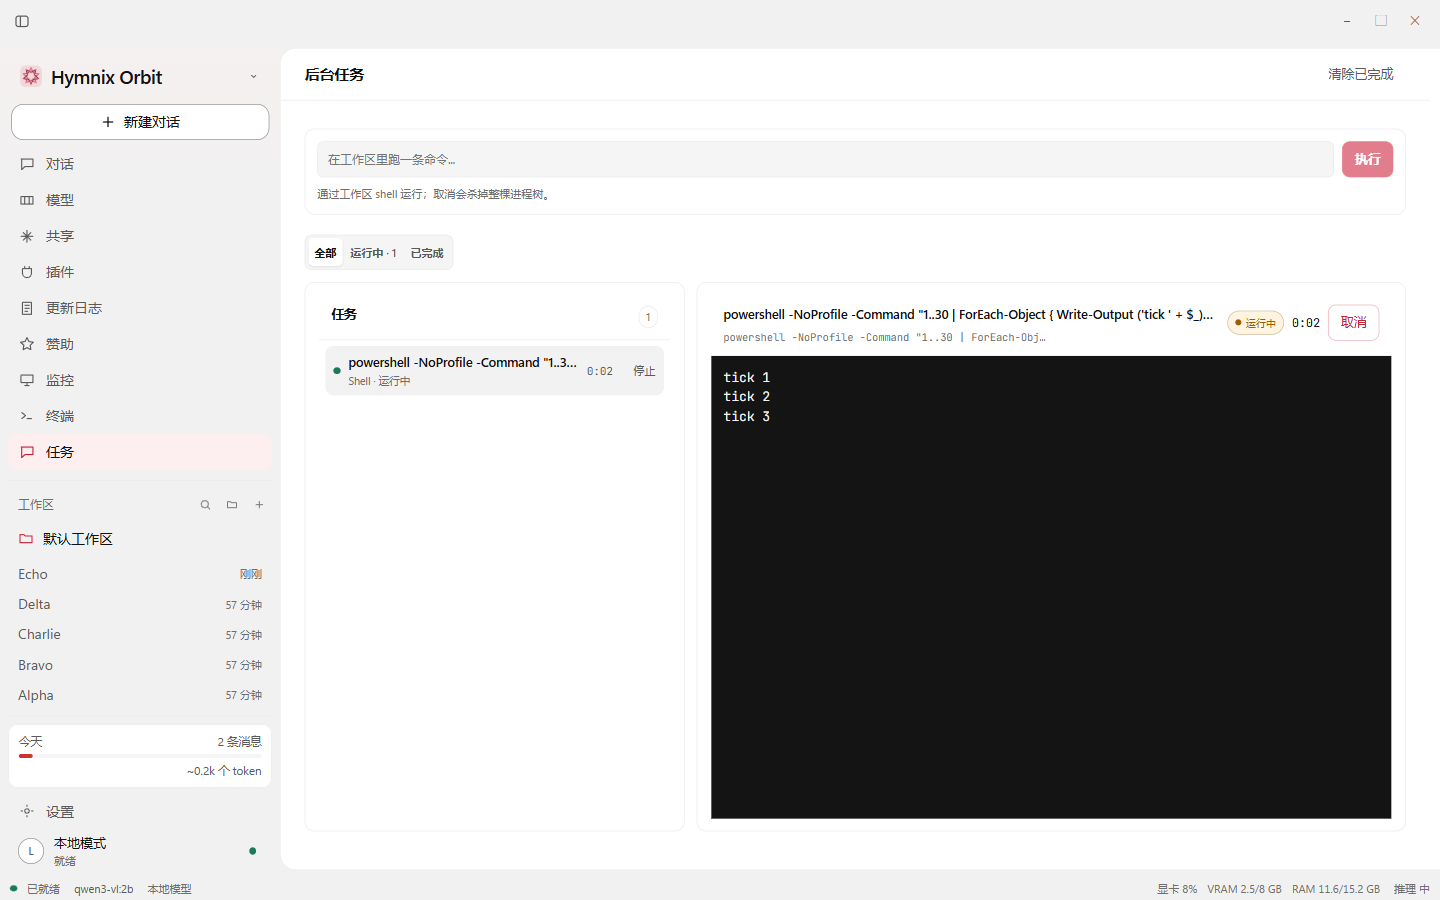
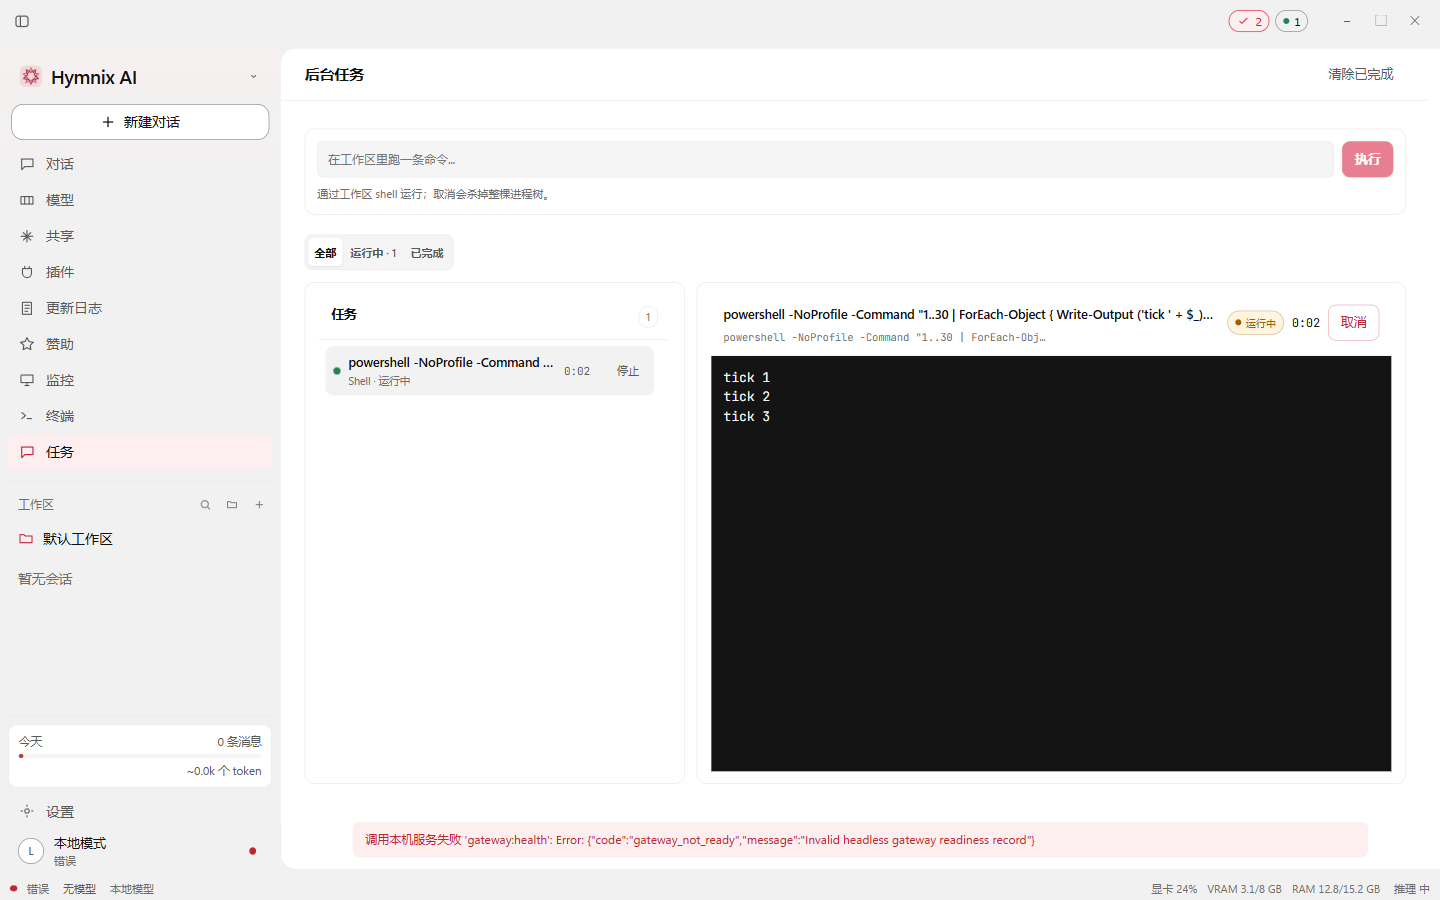
fix(orbit): align list columns, centre the shortcut sheet, move the title-bar badges
Reported while reviewing the 1.4.0 build: rows did not line up and dialogs looked cut off.

- plan steps, jobs rows and shortcut-editor rows use fixed grid columns, so the duration, exit code and button edges share one right edge per list
- shortcut sheet gets its own scrim (grid centring, 24px margins) instead of the top-padded palette backdrop that pinned it to the window edge
- scrollable lists inside cards show a thin scrollbar, so a partly visible row reads as scrollable rather than broken
- approval/job badges move to the window-control side of the title bar and get -webkit-app-region: no-drag (they were unclickable inside the drag region)
- probe-align / probe-clip / probe-badges scripts measure edges, clipping at 900/700/640 and badge clickability

diff --git a/desktop/src/renderer/orbit-v2.css b/desktop/src/renderer/orbit-v2.css
@@ -1881,8 +1881,9 @@ kbd { padding: 2px 5px; border: 1px solid var(--border); border-radius: 4px; bac
 .head-badge.live .badge-dot { background: var(--success); animation: orbit-pulse 1.4s var(--ease-standard) infinite; }
 @keyframes orbit-alert { 50% { box-shadow: 0 0 0 3px color-mix(in srgb, var(--accent) 16%, transparent); } }
 
-.tb-badges { display: flex; align-items: center; gap: 6px; padding: 0 8px; }
+.tb-badges { display: flex; flex: 0 0 auto; align-items: center; gap: 6px; padding: 0 10px 0 4px; -webkit-app-region: no-drag; }
 .tb-badges .head-badge { height: 22px; padding: 0 7px; }
+.tb-badges + .tb-window { margin-left: 2px; }
 
 /* ---- tool loop banner ---------------------------------------------------- */
 .loop-banner { display: flex; align-items: center; gap: 8px; margin: 0 auto 8px; width: min(760px, 100%); padding: 7px 10px; border: 1px solid var(--border); border-radius: var(--r-md); background: var(--sunken); color: var(--muted); font-size: calc(12px * var(--text-scale, 1)); }
@@ -1900,7 +1901,7 @@ kbd { padding: 2px 5px; border: 1px solid var(--border); border-radius: 4px; bac
 .plan-progress { height: 4px; border-radius: 999px; background: var(--highlight); overflow: hidden; }
 .plan-progress i { display: block; height: 100%; border-radius: inherit; background: var(--accent-fill); transition: width var(--dur-panel) var(--ease-standard); }
 .plan-steps { list-style: none; margin: 0; padding: 0; display: flex; flex-direction: column; gap: 2px; }
-.plan-step { display: grid; grid-template-columns: 20px minmax(0, 1fr) auto; align-items: center; gap: 8px; padding: 6px 6px; border-radius: 8px; }
+.plan-step { display: grid; grid-template-columns: 22px minmax(0, 1fr) 88px 104px; align-items: center; gap: 8px; padding: 6px 6px; border-radius: 8px; }
 .plan-step:hover { background: var(--highlight); }
 .plan-step[data-status="running"] { background: var(--accent-soft); }
 .plan-index { color: var(--faint); font-family: var(--font-mono); font-size: calc(11px * var(--text-scale, 1)); text-align: right; }
@@ -1913,10 +1914,10 @@ kbd { padding: 2px 5px; border: 1px solid var(--border); border-radius: 4px; bac
 .plan-dot[data-status="done"] { border-color: var(--success); background: var(--success); }
 .plan-dot[data-status="failed"] { border-color: var(--danger); background: var(--danger); }
 .plan-dot[data-status="skipped"] { border-color: var(--faint); background: var(--highlight); }
-.plan-meta { display: inline-flex; align-items: center; gap: 8px; margin-left: auto; color: var(--faint); font-size: calc(11px * var(--text-scale, 1)); }
+.plan-meta { display: flex; align-items: center; justify-content: flex-end; gap: 8px; min-width: 0; color: var(--faint); font-size: calc(11px * var(--text-scale, 1)); white-space: nowrap; }
 .plan-meta em { color: var(--accent-text); font-style: normal; font-weight: var(--fw-medium); }
 .plan-evidence-count { color: var(--muted); }
-.plan-step-actions { display: inline-flex; gap: 2px; opacity: 0; transition: opacity var(--dur-hover) var(--ease-standard); }
+.plan-step-actions { display: flex; align-items: center; justify-content: flex-end; gap: 2px; opacity: 0; transition: opacity var(--dur-hover) var(--ease-standard); }
 .plan-step:hover .plan-step-actions, .plan-step:focus-within .plan-step-actions { opacity: 1; }
 .plan-step-actions .btn { height: 24px; padding: 0 8px; font-size: calc(11px * var(--text-scale, 1)); }
 .plan-step-detail { grid-column: 2 / -1; padding: 6px 0 4px; }
@@ -1931,6 +1932,13 @@ kbd { padding: 2px 5px; border: 1px solid var(--border); border-radius: 4px; bac
 .evidence-time { margin-left: auto; color: var(--faint); font-family: var(--font-mono); font-size: calc(10.5px * var(--text-scale, 1)); }
 .plan-evidence li[data-status="error"], .evidence-list li[data-status="error"] { color: var(--danger); }
 .plan-evidence li[data-status="denied"], .evidence-list li[data-status="denied"] { color: var(--warning); }
+
+/* Long lists inside cards: an always-visible thin scrollbar. Without it the
+   last row is simply sliced by the card edge and reads as a layout bug. */
+.job-rows, .approval-rows, .shortcuts-sheet-body, .job-output { scrollbar-width: thin; scrollbar-color: var(--border-strong) transparent; scrollbar-gutter: stable; }
+.job-rows::-webkit-scrollbar, .approval-rows::-webkit-scrollbar, .shortcuts-sheet-body::-webkit-scrollbar, .job-output::-webkit-scrollbar { width: 9px; }
+.job-rows::-webkit-scrollbar-track, .approval-rows::-webkit-scrollbar-track, .shortcuts-sheet-body::-webkit-scrollbar-track, .job-output::-webkit-scrollbar-track { background: transparent; }
+.job-rows::-webkit-scrollbar-thumb, .approval-rows::-webkit-scrollbar-thumb, .shortcuts-sheet-body::-webkit-scrollbar-thumb, .job-output::-webkit-scrollbar-thumb { border: 2px solid transparent; border-radius: 6px; background: var(--border-strong); background-clip: content-box; }
 
 /* ---- approvals drawer ---------------------------------------------------- */
 .drawer-backdrop { position: fixed; inset: 0; z-index: var(--z-dialog); display: flex; justify-content: flex-end; background: color-mix(in srgb, var(--bg) 42%, transparent); backdrop-filter: blur(2px); animation: orbit-fade var(--dur-panel) var(--ease-standard); }
@@ -1970,6 +1978,7 @@ kbd { padding: 2px 5px; border: 1px solid var(--border); border-radius: 4px; bac
 .verdict.denied { background: var(--danger-soft); color: var(--danger); }
 
 /* ---- shortcut reference sheet ------------------------------------------- */
+.sheet-backdrop { position: fixed; inset: 0; z-index: var(--z-dialog); display: grid; place-items: center; padding: 24px; background: color-mix(in srgb, var(--text) 22%, transparent); backdrop-filter: blur(2px); }
 .shortcuts-sheet { display: flex; flex-direction: column; width: min(620px, 92vw); max-height: 82vh; margin: auto; overflow: hidden; border: 1px solid var(--border); border-radius: var(--r-lg); background: var(--surface); box-shadow: 0 24px 70px color-mix(in srgb, var(--bg) 65%, transparent); }
 .shortcuts-sheet-head { display: flex; align-items: flex-start; justify-content: space-between; gap: var(--s-3); padding: var(--s-4); border-bottom: 1px solid var(--border); }
 .shortcuts-sheet-head h2 { margin: 0; font-size: var(--fs-emphasis); }
@@ -1985,9 +1994,11 @@ kbd { padding: 2px 5px; border: 1px solid var(--border); border-radius: 4px; bac
 /* ---- shortcut editor in settings ---------------------------------------- */
 .shortcut-edit-group { margin: 10px 0 2px; }
 .shortcut-edit-heading { margin: 0 0 4px; color: var(--faint); font-size: calc(10.5px * var(--text-scale, 1)); font-weight: var(--fw-medium); letter-spacing: .1em; text-transform: uppercase; }
-.shortcut-edit-row { display: grid; grid-template-columns: minmax(0, 1fr) auto auto auto; align-items: center; gap: var(--s-2); padding: 6px 0; border-bottom: 1px solid var(--border); }
+.shortcut-edit-row { display: grid; grid-template-columns: minmax(0, 1fr) 132px 108px 60px; align-items: center; gap: var(--s-2); padding: 6px 0; border-bottom: 1px solid var(--border); }
 .shortcut-edit-label { font-size: calc(12.5px * var(--text-scale, 1)); }
-.shortcut-edit-row .btn { height: 26px; padding: 0 10px; font-size: calc(11px * var(--text-scale, 1)); }
+.shortcut-edit-row .shortcut-keys { justify-content: flex-end; }
+.shortcut-edit-row .chip { justify-self: end; }
+.shortcut-edit-row .btn { width: 100%; height: 26px; padding: 0 6px; font-size: calc(11px * var(--text-scale, 1)); }
 .shortcut-edit-foot { display: flex; align-items: center; gap: var(--s-3); margin-top: var(--s-3); }
 
 /* ---- jobs ---------------------------------------------------------------- */
@@ -2011,9 +2022,9 @@ kbd { padding: 2px 5px; border: 1px solid var(--border); border-radius: 4px; bac
 .job-text { display: flex; flex-direction: column; gap: 1px; min-width: 0; }
 .job-text strong { overflow: hidden; text-overflow: ellipsis; white-space: nowrap; font-size: calc(12.5px * var(--text-scale, 1)); font-weight: var(--fw-medium); }
 .job-text small { color: var(--faint); font-size: calc(10.5px * var(--text-scale, 1)); }
-.job-time { margin-left: auto; color: var(--muted); font-size: calc(11px * var(--text-scale, 1)); font-variant-numeric: tabular-nums; }
-.job-stop { height: 24px; padding: 0 8px; font-size: calc(11px * var(--text-scale, 1)); }
-.job-exit { padding-right: 8px; color: var(--faint); font-size: calc(10.5px * var(--text-scale, 1)); }
+.job-time { margin-left: auto; width: 44px; color: var(--muted); font-size: calc(11px * var(--text-scale, 1)); font-variant-numeric: tabular-nums; text-align: right; }
+.job-stop { width: 52px; height: 24px; padding: 0; font-size: calc(11px * var(--text-scale, 1)); }
+.job-exit { width: 58px; padding-right: 8px; color: var(--faint); font-size: calc(10.5px * var(--text-scale, 1)); text-align: right; }
 .job-detail-head { display: flex; align-items: flex-start; justify-content: space-between; gap: var(--s-3); padding: 10px 12px; border-bottom: 1px solid var(--border); }
 .job-detail-head > div:first-child { flex: 1 1 auto; min-width: 0; }
 .job-detail-head .card-title { overflow: hidden; text-overflow: ellipsis; white-space: nowrap; }

diff --git a/desktop/src/renderer/main.tsx b/desktop/src/renderer/main.tsx
@@ -2292,12 +2292,12 @@ function App() {
                   <button type="button" className="plan-intent" onClick={() => setOpenStepId(openStepId === step.id ? null : step.id)} aria-expanded={openStepId === step.id}>
                     <span className="plan-dot" data-status={step.status} aria-label={t(planStatusText(step.status))} />
                     <span className="plan-text">{step.intent}</span>
-                    <span className="plan-meta">
-                      {step.status === "running" && <em>{t("Running")}</em>}
-                      {step.finishedAt != null && (planStepDuration(step) || 0) >= 10 ? <small className="mono">{formatPlanDuration(planStepDuration(step) || 0)}</small> : null}
-                      {step.evidenceIds.length > 0 && <small className="plan-evidence-count">{step.evidenceIds.length} {t("evidence")}</small>}
-                    </span>
                   </button>
+                  <span className="plan-meta">
+                    {step.status === "running" && <em>{t("Running")}</em>}
+                    {step.finishedAt != null && (planStepDuration(step) || 0) >= 10 ? <small className="mono">{formatPlanDuration(planStepDuration(step) || 0)}</small> : null}
+                    {step.evidenceIds.length > 0 && <small className="plan-evidence-count">{step.evidenceIds.length} {t("evidence")}</small>}
+                  </span>
                   <span className="plan-step-actions">
                     {step.status !== "done" && <button type="button" className="btn ghost" onClick={() => updateStep(step.id, "done")}>{t("Done")}</button>}
                     {step.status !== "skipped" && step.status !== "done" && <button type="button" className="btn ghost" onClick={() => updateStep(step.id, "skipped")}>{t("Skip")}</button>}
@@ -3282,7 +3282,7 @@ function App() {
         <footer className="drawer-foot">{t("A request expires after 60 seconds; stale rows disappear on the next refresh.")}</footer>
       </aside>
     </div>}
-    {shortcutsOpen && <div className="palette-backdrop" onClick={() => setShortcutsOpen(false)}>
+    {shortcutsOpen && <div className="sheet-backdrop" onClick={() => setShortcutsOpen(false)}>
       <div className="shortcuts-sheet" role="dialog" aria-modal="true" aria-label={t("Keyboard shortcuts")} onClick={(event) => event.stopPropagation()}>
         <header className="shortcuts-sheet-head"><div><h2>{t("Keyboard shortcuts")}</h2><p>{t("Every global command, and what it is bound to now.")}</p></div><button type="button" className="btn ghost" onClick={() => setShortcutsOpen(false)} aria-label={t("Close")}>✕</button></header>
         <div className="shortcuts-sheet-body">
@@ -3306,6 +3306,7 @@ function App() {
           <svg viewBox="0 0 20 20" aria-hidden="true"><rect x="2.5" y="3.5" width="15" height="13" rx="3" /><path d="M8 3.5v13" /></svg>
         </button>
       </div>
+      <div className="titlebar-drag" />
       {(approvals.length > 0 || runningJobs > 0) && <div className="tb-badges">
         {approvals.length > 0 && <button type="button" className="head-badge alert" onClick={() => { setApprovalsOpen(true); setApprovalsTab("pending"); void refreshApprovals(); }} aria-label={tf("{count} pending approvals", { count: String(approvals.length) })} title={t("Approvals")}>
           <Icon name="Approvals" /><span>{approvals.length}</span>
@@ -3314,7 +3315,6 @@ function App() {
           <span className="badge-dot" aria-hidden="true" /><span>{runningJobs}</span>
         </button>}
       </div>}
-      <div className="titlebar-drag" />
       <div className="tb-window">
         {previewOpen && <button type="button" className="preview-close" onClick={() => void closePreview()}>{t("Close preview")}</button>}
         <button type="button" onClick={() => void window.hymnix.window.control("minimize")} aria-label={t("Minimize")}>–</button>

diff --git a/HANDOFF.md b/HANDOFF.md
@@ -38,11 +38,26 @@ pnpm exec electron-builder --win --x64
 | 审批链路修复 | `main.ts` `tools:approve/deny` | 发 `allow`/`deny`、回传执行结果（旧代码发的判定词网关不认，从未成功过） |
 | 英文系统提示词修复 | `main.tsx` `CODE_MODE_PROMPT` | 英文会话不再发送字面键 |
 
+布局修正（用户验收时提出的「显示不完整 / 错位」）：
+
+| 问题 | 修法 |
+|---|---|
+| 快捷键面板贴住窗口底边、看不出还能滚 | 独立的 `.sheet-backdrop`（grid 居中 + 24px 上下留白），`max-height: min(86vh, 820px)` |
+| 卡片内长列表把最后一行切一半 | 这些容器显示细滚动条（`scrollbar-width: thin` + `::-webkit-scrollbar`） |
+| 计划行右侧耗时/运行中边缘逐行漂移 | 行改成 4 列固定宽 grid（22 / 1fr / 88 / 104），meta 从按钮里移出成独立列 |
+| 任务行 0:03 与 exit 0 挤在一起 | 时间 44px、退出码 58px、停止 52px 固定宽右对齐 |
+| 快捷键行「改键」「重置」不齐 | 列宽固定 1fr / 132 / 108 / 60，按钮宽度 100% |
+| 标题栏审批徽标浮在拖拽区、点不动 | 移到窗口按钮左侧，并加 `-webkit-app-region: no-drag` |
+
 复测脚本（Playwright 启动真实 Electron）：
 
 ```powershell
 cd desktop
 node scripts/verify-1.4.mjs      # 四项 UI 端到端，输出 PLAN/JOB/SHORTCUT 等断言行
+node scripts/probe-align.mjs     # 行内列对齐测量（每类行的右边缘必须只有 1 个值）
+node scripts/probe-clip.mjs      # 900/700/640 三档高度下，弹层是否越界
+node scripts/probe-badges.mjs    # 标题栏徽标位置与可点击性
+node scripts/smoke-packaged.mjs  # 打包后的 exe 冒烟（版本/任务页/计划页）
 ```
 
 截图产物：`.verify-plan.png`、`.verify-plan-zoom.png`、`.verify-approvals.png`、`.verify-jobs.png`、`.verify-shortcuts.png`、`.verify-shortcut-editor.png`（仓库根目录，属临时验证物，可删）。
@@ -59,9 +74,9 @@ node scripts/verify-1.4.mjs      # 四项 UI 端到端，输出 PLAN/JOB/SHORTCU
 - `build/hymnix-orbit2-backend/hymnix-server-1.4.0-x64.exe`（PyInstaller，`pnpm build:backend`，读根目录 `VERSION` 命名）
 - `engine-java/build/hymnix-engine.jar`、`cloudflared.exe`、`server/assets/hymnix-red-white-star.ico`
 - 产物落在 `..\release\`（本轮已出，未签名）：
-  - `Hymnix-Orbit-1.4.0-Setup.exe` — 168,162,430 B · `07e7f707…34d7319`
-  - `Hymnix-Orbit-1.4.0-Portable.exe` — 155,282,294 B · `c6b11890…e5e7ac45`
-  - `Hymnix-Orbit-1.4.0-Setup.exe.blockmap` — 177,054 B
+  - `Hymnix-Orbit-1.4.0-Setup.exe` — 168,162,471 B · `83ae88c7…5214ae0`
+  - `Hymnix-Orbit-1.4.0-Portable.exe` — 155,276,141 B · `d0eec152…178a7f1`
+  - `Hymnix-Orbit-1.4.0-Setup.exe.blockmap` — 177,100 B
   - 校验：`release/SHA256SUMS.txt`
 - 打包后的 exe 已冒烟验证（`desktop/scripts/smoke-packaged.mjs`）：版本 1.4.0、导航有「任务」、对话有「计划」页。
 
@@ -69,10 +84,11 @@ node scripts/verify-1.4.mjs      # 四项 UI 端到端，输出 PLAN/JOB/SHORTCU
 
 1. **不要"只调样式"**：550C 皮肤插件的原则是 *只覆盖令牌、不重画盒子*。布局崩过多次都是因为叠加式覆盖 CSS。新样式加在文件末尾并写明作用域（1.4.0 的四个卡片就是这么加的）。
 2. **主题不换**：Orbit 与 Hymnix 的差异靠功能（任务、运行、证据、工作台），不靠配色。
-3. **所有 `t()` 字符串必须有中文**，否则 `tests/components.test.mjs` 直接失败。扫描器已升级：三元分支里的文案也算（`t(a ? "Always allow" : "Always allowed")`），比较用的字面量（`"danger"`）不算。
-4. **窗口尺寸断言**：`tests/protocol.test.mjs` 要求 `Math.min(1294` / `Math.min(830` 与 `minWidth: 800, minHeight: 560`。
-5. **不要恢复 `renderApprovals()` 页面**：`protocol.test.mjs` 明确要求 Approvals 页保持移除，审批走抽屉。
-6. 空状态不要放"占位符"文案，用户明确反感。
+3. **多列表行必须用固定列宽的 grid**：每一行各自成 grid 时，列宽由该行内容决定，右边缘就会一行一个样（1.4.0 被打回两次就是这个问题）。测量方式见 `probe-align.mjs`：每类行的右边缘应该只有一个值。
+4. **所有 `t()` 字符串必须有中文**，否则 `tests/components.test.mjs` 直接失败。扫描器已升级：三元分支里的文案也算（`t(a ? "Always allow" : "Always allowed")`），比较用的字面量（`"danger"`）不算。
+5. **窗口尺寸断言**：`tests/protocol.test.mjs` 要求 `Math.min(1294` / `Math.min(830` 与 `minWidth: 800, minHeight: 560`。
+6. **不要恢复 `renderApprovals()` 页面**：`protocol.test.mjs` 明确要求 Approvals 页保持移除，审批走抽屉。
+7. 空状态不要放"占位符"文案，用户明确反感。
 
 ## 7. 版本与发布
 

diff --git a/docs/release-notes-1.4.0.md b/docs/release-notes-1.4.0.md
@@ -16,6 +16,10 @@
 **可改快捷键**
 Ctrl+/ 打开全部全局命令的参考表。设置 → 快捷键 可以就地录制新组合；重复的组合会告诉你已经被哪条命令占用；Escape 与 Enter 保持锁定；只保存改动。
 
+**布局修正**
+- 计划、任务、快捷键的行改成固定列宽，耗时与按钮的右边缘逐行对齐。
+- 快捷键面板居中显示并留出等距边距；可滚动列表显示细滚动条，不再切掉半行。
+
 **修复**
 - 桌面端审批此前从未真正生效：发出的判定词和网关期望的不一致，返回体也按另一种形状解析。现在「允许」会直接执行工具并带回结果。
 - 英文界面会把 `CODE_MODE_PROMPT` 这个字面键当成系统提示词发出去，现在是真正的英文提示词，并配了中文翻译。
@@ -35,6 +39,10 @@ Long commands, model downloads and gateway restarts share one Jobs page: streame
 
 **Editable shortcuts**
 Ctrl+/ opens a reference sheet of every global command. Settings → Shortcuts records a new combination inline; a duplicate names the command that already owns it; Escape and Enter stay locked; only the changes are stored.
+
+**Layout**
+- Plan, job and shortcut rows share fixed column widths, so durations and buttons line up down the list.
+- The shortcut sheet is centred with equal margins, and scrollable lists show a thin scrollbar instead of slicing the last row.
 
 **Fixes**
 - Approving a tool call from the desktop never worked: the shell sent a different verdict word than the gateway accepts and parsed its reply as another shape. "Allow" now runs the tool and returns its result.

diff --git a/CHANGELOG.md b/CHANGELOG.md
@@ -18,6 +18,8 @@ The four capabilities the desktop shell was missing, built on the contracts alre
 
 - **Approving a tool call never worked.** The shell posted `approve`/`deny` while the gateway decides with `allow`/`deny`, and it parsed the reply as an `id`/`decision` pair the gateway never sends. An approval now runs the tool and returns its result, so an approved call no longer has to be repeated.
 - **English sessions sent `CODE_MODE_PROMPT` as their system prompt** — the literal i18n key, because the English dictionary is the key itself. The coding brief is now a real sentence with a Chinese translation.
+- Plan, job and shortcut rows now share fixed column widths, so the duration, exit code and button edges line up down the list instead of drifting with each row's content.
+- The shortcut sheet sits in its own scrim with equal margins, and scrollable lists inside cards show a thin scrollbar instead of slicing the last row.
 - Plan and job durations no longer render as a meaningless `0ms` when a step is measured in single-digit milliseconds.
 
 ### Design pass — neutral surfaces at 14px (2026-11-25)

diff --git a/CHANGELOG.zh-CN.md b/CHANGELOG.zh-CN.md
@@ -23,6 +23,8 @@
 
 - **审批工具调用从未真正生效。** 桌面端发的是 `approve`/`deny`，而网关按 `allow`/`deny` 判定；返回体也被当成 `id`/`decision` 解析，而网关根本不返回这个形状。现在允许后会直接执行工具并带回结果，通过审批的调用不需要重发。
 - **英文会话把 `CODE_MODE_PROMPT` 当成系统提示词发了出去**——因为英文词典就是键本身。编码提示现在是一句真正的英文，并配了中文翻译。
+- 计划、任务、快捷键三类行改为固定列宽，耗时、退出码和按钮的右边缘逐行对齐，不再随内容长短漂移。
+- 快捷键面板有了自己的遮罩层，四周留白一致；卡片内可滚动列表显示细滚动条，不再把最后一行切掉一半。
 - 单步骤耗时只有个位数毫秒时，计划与任务不再显示没有意义的 `0ms`。
 
 ### 设计轮：中性底色 + 14px 基准（2026-11-25）
